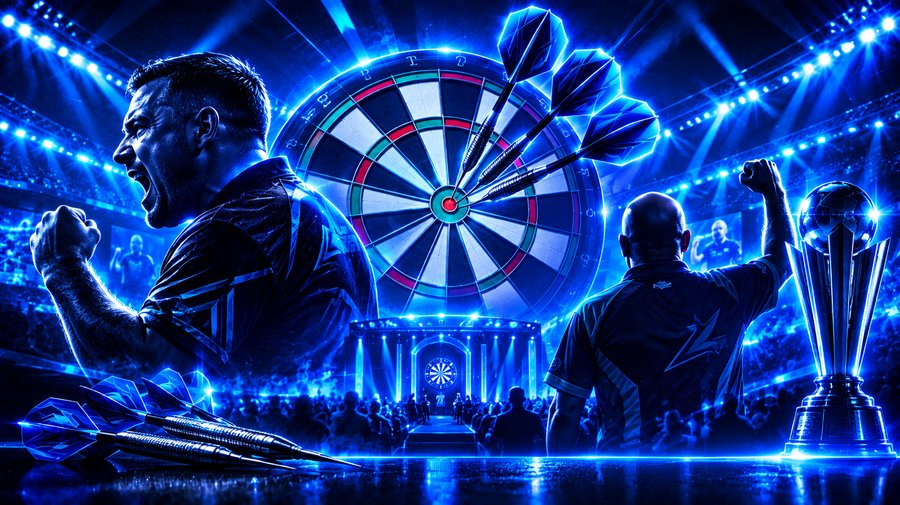
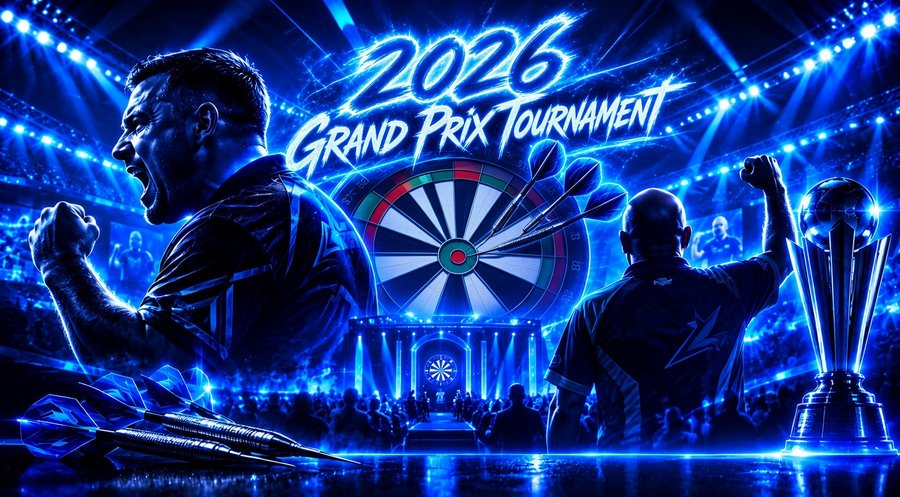
Update Darts, Last Man Standing, and Champions League card images

diff --git a/frontend/index.html b/frontend/index.html
@@ -1544,7 +1544,7 @@
     lms: { href:'/last-man-standing', title:'Last Man Standing', sport:'Football', img:'assets/card-lms.jpg', imgClass:'media-fixture large-image', carouselBg:'assets/registering-default-bg.jpg' },
     fantasy: { href:'/fantasy-manager', title:'Fantasy Manager', sport:'Football', img:'assets/card-fantasy.jpg', imgClass:'media-podium large-image', carouselBg:'assets/registering-default-bg.jpg' },
     stockmarket: { href:'/stock-market', title:'Player Stock Market', sport:'Football', img:'assets/card-stockmarket.jpg', imgClass:'media-goal large-image', carouselBg:'assets/registering-default-bg.jpg' },
-    champions_league: { href:'/champions-league', title:'Champions League', sport:'Champions League', desc:'Pick one team to win each matchday. Once used, that team is gone for the rest of the tournament.', img:'assets/champions-league-hero.jpg', imgClass:'media-fixture', carouselBg:'assets/registering-default-bg.jpg' },
+    champions_league: { href:'/champions-league', title:'Champions League', sport:'Champions League', desc:'Pick one team to win each matchday. Once used, that team is gone for the rest of the tournament.', img:'assets/card-champions-league.jpg', imgClass:'media-fixture', carouselBg:'assets/registering-default-bg.jpg' },
     darts: { href:'/darts', title:'World Grand Prix', sport:'Darts', desc:'32-player knockout bracket. Predict every match, double points each round.', img:'assets/card-darts.jpg', imgClass:'media-fixture', carouselBg:'assets/registering-default-bg.jpg' }
   };
 
